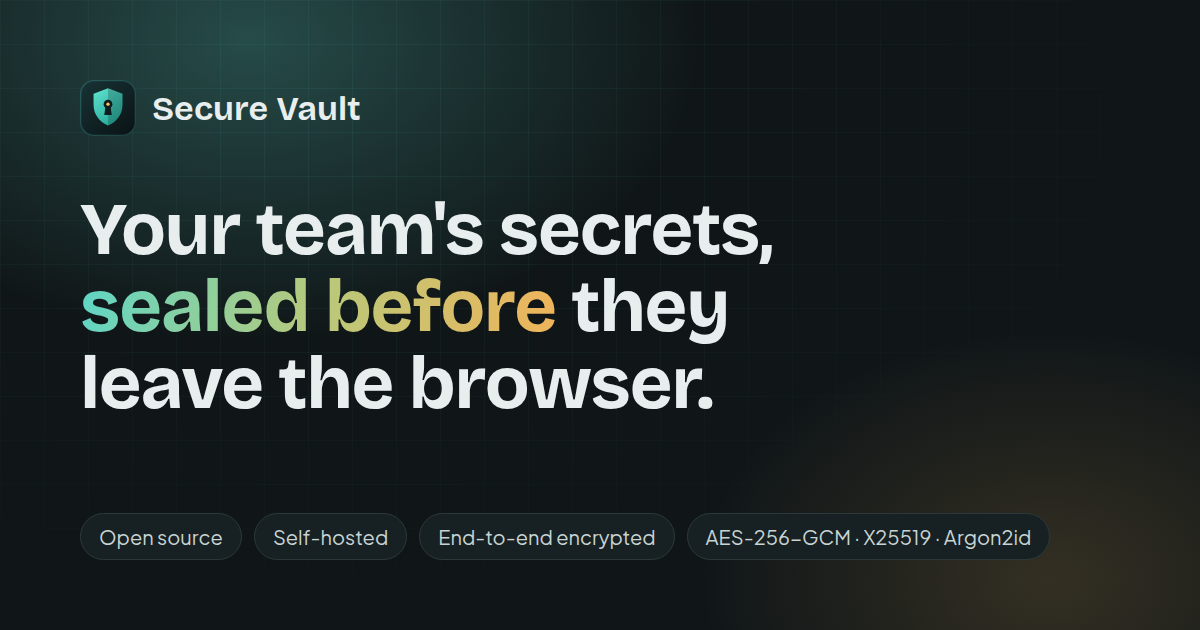
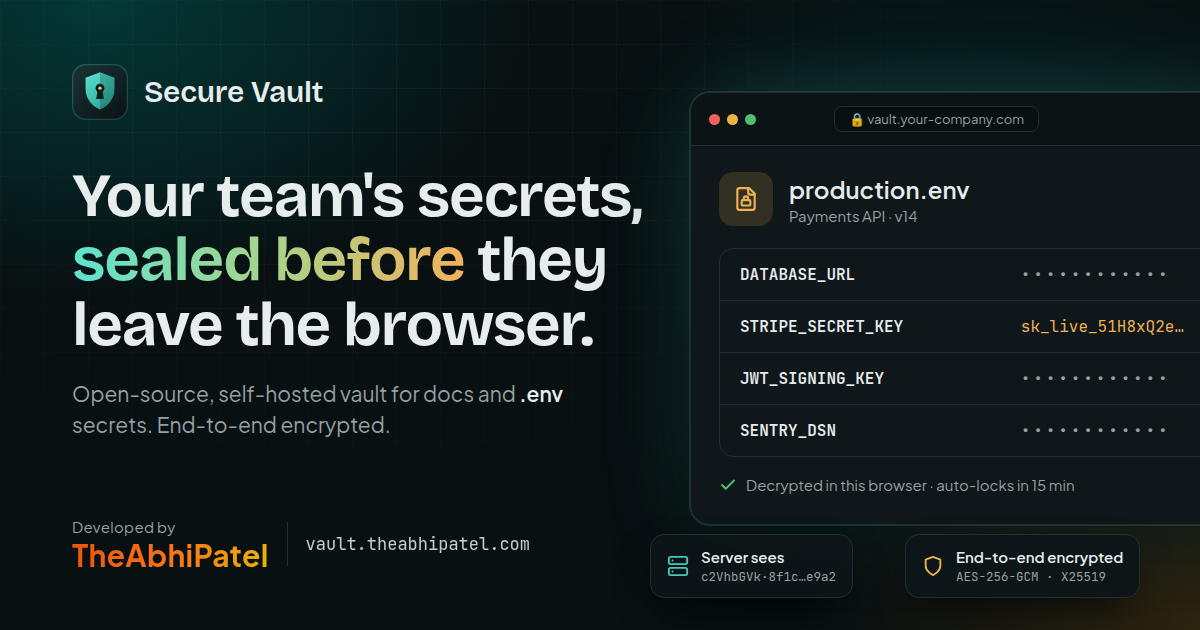
feat: add meta tags, description and og image

diff --git a/frontend/src/site/seo.ts b/frontend/src/site/seo.ts
@@ -1,6 +1,6 @@
 /** Per-page titles and meta tags, rendered into the pre-built HTML and kept in sync in the browser. */
 import { ALL_DOCS, findDoc } from "./docs/catalog"
-import { AUTHOR, GITHUB_URL, SITE_NAME, SITE_URL } from "./config"
+import { AUTHOR, GITHUB_URL, GOOGLE_SITE_VERIFICATION, SITE_NAME, SITE_URL } from "./config"
 
 export interface PageMeta {
   title: string
@@ -13,15 +13,23 @@ export interface PageMeta {
   section?: string
 }
 
-const HOME_DESCRIPTION =
-  "Secure Vault is an open-source, self-hosted team vault by TheAbhiPatel. Keep docs and .env secrets in one place, with secrets end-to-end encrypted in the browser so the server never sees them."
+/** "Secure Vault by TheAbhiPatel": the name people search for, used in titles and descriptions. */
+const BRANDED_NAME = `${SITE_NAME} by ${AUTHOR.name}`
+
+const HOME_DESCRIPTION = `${BRANDED_NAME} (${AUTHOR.fullName}) is an open-source, self-hosted team vault. Keep docs and .env secrets in one place, end-to-end encrypted in your browser so the server never sees them.`
 
 /** Keywords on every public page, including the author's name. */
 const SITE_KEYWORDS = [
   SITE_NAME,
+  BRANDED_NAME,
+  "Secure Vault TheAbhiPatel",
+  "vault theabhipatel",
+  "secure vault the abhi patel",
   "TheAbhiPatel",
   "theabhipatel",
+  "The Abhi Patel",
   "Abhi Patel",
+  "Abhishek Patel",
   "end-to-end encryption",
   "E2EE",
   "secrets management",
@@ -33,13 +41,15 @@ const SITE_KEYWORDS = [
   "zero-knowledge",
 ]
 
-const OG_IMAGE_ALT = `${SITE_NAME}: end-to-end encrypted secrets and docs for teams, by TheAbhiPatel`
+const OG_IMAGE_ALT = `${BRANDED_NAME}: end-to-end encrypted secrets and docs for teams`
+/** Bump when og-image.png changes, so social networks fetch the new image instead of a cached one. */
+const OG_IMAGE_PATH = "/og-image.png?v=2"
 
 export function pageMeta(pathname: string): PageMeta {
   const path = pathname.replace(/\/+$/, "") || "/"
   if (path === "/") {
     return {
-      title: `${SITE_NAME} | End-to-end encrypted secrets and docs for teams`,
+      title: `${BRANDED_NAME} | End-to-end encrypted secrets and docs`,
       description: HOME_DESCRIPTION,
       path,
       type: "website",
@@ -48,9 +58,8 @@ export function pageMeta(pathname: string): PageMeta {
   }
   if (path === "/docs") {
     return {
-      title: `Documentation | ${SITE_NAME}`,
-      description:
-        "Secure Vault documentation by TheAbhiPatel: self-host it, manage workspaces and roles, and keep secrets end-to-end encrypted.",
+      title: `Documentation | ${BRANDED_NAME}`,
+      description: `${BRANDED_NAME} documentation: self-host it, manage workspaces and roles, and keep secrets end-to-end encrypted.`,
       path,
       type: "website",
       keywords: ["Secure Vault docs", "documentation", "self-hosting guide"],
@@ -71,7 +80,7 @@ export function pageMeta(pathname: string): PageMeta {
   }
   if (path === "/privacy") {
     return {
-      title: `Privacy and demo terms | ${SITE_NAME}`,
+      title: `Privacy and demo terms | ${BRANDED_NAME}`,
       description: "What the public Secure Vault demo stores, how long, and why real secrets belong on your own server.",
       path,
       type: "website",
@@ -89,7 +98,7 @@ const escapeHtml = (value: string) =>
 /** The <head> tags for a page (static HTML; no inline scripts, which the CSP forbids). */
 export function renderHead(meta: PageMeta): string {
   const url = SITE_URL ? `${SITE_URL}${meta.path === "/" ? "/" : meta.path}` : ""
-  const image = SITE_URL ? `${SITE_URL}/og-image.png` : ""
+  const image = SITE_URL ? `${SITE_URL}${OG_IMAGE_PATH}` : ""
   const robots = "index, follow, max-image-preview:large, max-snippet:-1, max-video-preview:-1"
   const tags = [
     `<title>${escapeHtml(meta.title)}</title>`,
@@ -113,9 +122,14 @@ export function renderHead(meta: PageMeta): string {
     `<meta property="og:description" content="${escapeHtml(meta.description)}" />`,
     // X / Twitter
     `<meta name="twitter:card" content="summary_large_image" />`,
+    `<meta name="twitter:site" content="${AUTHOR.xHandle}" />`,
+    `<meta name="twitter:creator" content="${AUTHOR.xHandle}" />`,
     `<meta name="twitter:title" content="${escapeHtml(meta.title)}" />`,
     `<meta name="twitter:description" content="${escapeHtml(meta.description)}" />`,
   ]
+  if (GOOGLE_SITE_VERIFICATION) {
+    tags.push(`<meta name="google-site-verification" content="${escapeHtml(GOOGLE_SITE_VERIFICATION)}" />`)
+  }
   if (meta.type === "article") {
     tags.push(`<meta property="article:author" content="${AUTHOR.url}" />`)
     if (meta.section) tags.push(`<meta property="article:section" content="${escapeHtml(meta.section)}" />`)
@@ -126,6 +140,7 @@ export function renderHead(meta: PageMeta): string {
   if (image) {
     tags.push(
       `<meta property="og:image" content="${image}" />`,
+      `<meta property="og:image:secure_url" content="${image}" />`,
       `<meta property="og:image:type" content="image/png" />`,
       `<meta property="og:image:width" content="1200" />`,
       `<meta property="og:image:height" content="630" />`,
@@ -149,8 +164,11 @@ const PERSON = {
   "@id": absolute("/#author"),
   name: AUTHOR.name,
   alternateName: [...AUTHOR.alternateNames],
+  givenName: "Abhishek",
+  familyName: "Patel",
+  jobTitle: AUTHOR.jobTitle,
   url: AUTHOR.url,
-  sameAs: [AUTHOR.github, AUTHOR.url],
+  sameAs: [AUTHOR.url, AUTHOR.github, AUTHOR.linkedin, AUTHOR.x, AUTHOR.leetcode],
 }
 const PERSON_REF = { "@id": PERSON["@id"] }
 
@@ -158,6 +176,7 @@ const WEBSITE = {
   "@type": "WebSite",
   "@id": absolute("/#website"),
   name: SITE_NAME,
+  alternateName: [BRANDED_NAME, `${AUTHOR.name} Secure Vault`, `Vault by ${AUTHOR.name}`],
   url: absolute("/"),
   description: HOME_DESCRIPTION,
   inLanguage: "en",
@@ -173,11 +192,12 @@ export function structuredData(meta: PageMeta): string {
       "@type": "SoftwareApplication",
       "@id": absolute("/#software"),
       name: SITE_NAME,
+      alternateName: BRANDED_NAME,
       applicationCategory: "SecurityApplication",
       operatingSystem: "Web, Linux, macOS, Windows (self-hosted)",
       description: meta.description,
       url: absolute("/"),
-      ...(SITE_URL ? { image: absolute("/og-image.png") } : {}),
+      ...(SITE_URL ? { image: absolute(OG_IMAGE_PATH), screenshot: absolute(OG_IMAGE_PATH) } : {}),
       offers: { "@type": "Offer", price: "0", priceCurrency: "USD" },
       author: PERSON_REF,
       creator: PERSON_REF,

diff --git a/frontend/vite.config.ts b/frontend/vite.config.ts
@@ -3,7 +3,7 @@ import fs from 'node:fs'
 import path from 'node:path'
 import tailwindcss from '@tailwindcss/vite'
 import react from '@vitejs/plugin-react'
-import { defineConfig } from 'vite'
+import { defineConfig, loadEnv } from 'vite'
 import type { Plugin } from 'vite'
 
 // Where the FastAPI backend listens in development (see .env.example).
@@ -71,6 +71,34 @@ function subresourceIntegrity(): Plugin {
   }
 }
 
+/**
+ * Link previews for app pages (/login, /signup, invite links...). They stay noindex, but a shared link
+ * should still show the title and image. Open Graph needs absolute URLs, so this needs VITE_SITE_URL.
+ */
+function appShellSocialTags(siteUrl: string): Plugin {
+  const title = 'Secure Vault by TheAbhiPatel'
+  const description = "End-to-end encrypted secrets and docs for teams. Open source and self-hosted, by TheAbhiPatel."
+  const image = `${siteUrl}/og-image.png?v=2`
+  const tags = [
+    `<meta property="og:site_name" content="Secure Vault" />`,
+    `<meta property="og:type" content="website" />`,
+    `<meta property="og:title" content="${title}" />`,
+    `<meta property="og:description" content="${description}" />`,
+    `<meta property="og:image" content="${image}" />`,
+    `<meta property="og:image:width" content="1200" />`,
+    `<meta property="og:image:height" content="630" />`,
+    `<meta name="twitter:card" content="summary_large_image" />`,
+    `<meta name="twitter:creator" content="@itheabhipatel" />`,
+    `<meta name="twitter:title" content="${title}" />`,
+    `<meta name="twitter:description" content="${description}" />`,
+    `<meta name="twitter:image" content="${image}" />`,
+  ].join('\n    ')
+  return {
+    name: 'vault-app-shell-social-tags',
+    transformIndexHtml: (html) => html.replace('<!--app-social-->', siteUrl ? tags : ''),
+  }
+}
+
 /** Public site pages (landing, docs, privacy). Everything else is the app. */
 const isSitePath = (pathname: string) =>
   pathname === '/' || pathname === '/docs' || pathname.startsWith('/docs/') || pathname === '/privacy'
@@ -106,8 +134,14 @@ function sitePages(): Plugin {
 }
 
 // https://vite.dev/config/
-export default defineConfig(({ isSsrBuild }) => ({
-  plugins: [react(), tailwindcss(), sitePages(), subresourceIntegrity()],
+export default defineConfig(({ isSsrBuild, mode }) => ({
+  plugins: [
+    react(),
+    tailwindcss(),
+    sitePages(),
+    appShellSocialTags(String(loadEnv(mode, import.meta.dirname, 'VITE_').VITE_SITE_URL ?? '').replace(/\/+$/, '')),
+    subresourceIntegrity(),
+  ],
   resolve: {
     alias: { '@': path.resolve(import.meta.dirname, './src') },
   },

diff --git a/frontend/src/site/config.ts b/frontend/src/site/config.ts
@@ -7,10 +7,19 @@ export const GITHUB_DOCS_EDIT_URL = `${GITHUB_URL}/edit/master/frontend/src/site
 /** The author, credited in the meta tags and structured data of every public page. */
 export const AUTHOR = {
   name: "TheAbhiPatel",
-  alternateNames: ["Abhi Patel", "Abhishek Patel", "theabhipatel"],
+  fullName: "Abhishek Patel",
+  alternateNames: ["Abhishek Patel", "Abhi Patel", "The Abhi Patel", "theabhipatel"],
+  jobTitle: "Full Stack Developer & DevOps Engineer",
   url: "https://www.theabhipatel.com/",
   github: "https://github.com/theabhipatel",
+  linkedin: "https://www.linkedin.com/in/theabhipatel",
+  x: "https://x.com/itheabhipatel",
+  xHandle: "@itheabhipatel",
+  leetcode: "https://leetcode.com/u/theabhipatel",
 } as const
+
+/** Google Search Console HTML-tag verification token (the content="..." value), if any. */
+export const GOOGLE_SITE_VERIFICATION = String(import.meta.env.VITE_GOOGLE_SITE_VERIFICATION ?? "").trim()
 
 /** Absolute public origin (e.g. https://securevault.example.com). Used for canonical and Open Graph URLs. */
 export const SITE_URL = String(import.meta.env.VITE_SITE_URL ?? "").replace(/\/+$/, "")

diff --git a/frontend/src/site/components/site-footer.tsx b/frontend/src/site/components/site-footer.tsx
@@ -3,7 +3,7 @@ import { Link } from "react-router"
 
 import { LogoMark } from "@/components/brand"
 
-import { APP_URL, GITHUB_URL, SIGNUP_URL } from "../config"
+import { APP_URL, AUTHOR, GITHUB_URL, SIGNUP_URL } from "../config"
 import { DevelopedBy } from "./developed-by"
 import { GitHubIcon } from "./github-icon"
 
@@ -188,7 +188,11 @@ export function SiteFooter() {
 
         <div className="flex flex-col-reverse items-start justify-between gap-6 border-t py-8 sm:flex-row sm:items-center">
           <p className="text-muted-foreground text-xs">
-            © {new Date().getFullYear()} Secure Vault. Open source. Encrypted in your browser, stored as ciphertext.
+            © {new Date().getFullYear()} Secure Vault by{" "}
+            <a href={AUTHOR.url} target="_blank" rel="noopener author" className="hover:text-foreground underline-offset-4 hover:underline">
+              {AUTHOR.name} ({AUTHOR.fullName})
+            </a>
+            . Open source. Encrypted in your browser, stored as ciphertext.
           </p>
           <DevelopedBy />
         </div>

diff --git a/frontend/index.html b/frontend/index.html
@@ -4,7 +4,8 @@
     <meta charset="UTF-8" />
     <meta name="viewport" content="width=device-width, initial-scale=1.0" />
     <meta name="color-scheme" content="light dark" />
-    <meta name="description" content="Secure Vault: an end-to-end encrypted home for your team's secrets and docs." />
+    <meta name="description" content="Secure Vault by TheAbhiPatel: an end-to-end encrypted home for your team's secrets and docs." />
+    <meta name="author" content="TheAbhiPatel" />
     <meta name="robots" content="noindex" />
     <meta name="referrer" content="no-referrer" />
     <link rel="icon" type="image/svg+xml" href="/favicon.svg" />
@@ -12,7 +13,8 @@
     <link rel="apple-touch-icon" href="/apple-touch-icon.png" />
     <link rel="manifest" href="/site.webmanifest" />
     <script src="/theme-init.js"></script>
-    <title>Secure Vault</title>
+    <!--app-social-->
+    <title>Secure Vault by TheAbhiPatel</title>
   </head>
   <body>
     <div id="root"></div>

diff --git a/frontend/src/site/env.d.ts b/frontend/src/site/env.d.ts
@@ -1,4 +1,5 @@
 interface ImportMetaEnv {
   readonly VITE_SITE_URL?: string
+  readonly VITE_GOOGLE_SITE_VERIFICATION?: string
   readonly VITE_DEMO_MODE?: string
 }

diff --git a/README.md b/README.md
@@ -6,9 +6,11 @@
 
 **Your team's docs and secrets in one place, with secrets end-to-end encrypted in the browser.**
 
+Built by [TheAbhiPatel](https://www.theabhipatel.com/)
+
 Self-hosted · Multi-workspace · Roles and permissions · Audit log · Free
 
-[Live demo](https://secure-vault-navy-delta.vercel.app) · [Documentation](https://secure-vault-navy-delta.vercel.app/docs) · [Self-hosting guide](https://secure-vault-navy-delta.vercel.app/docs/self-hosting)
+[Live demo](https://vault.theabhipatel.com) · [Documentation](https://vault.theabhipatel.com/docs) · [Self-hosting guide](https://vault.theabhipatel.com/docs/self-hosting)
 
 </div>
 
@@ -48,7 +50,7 @@ plaintext secret. Even someone who steals the whole database gets nothing readab
 
 ## Try the demo
 
-Open the **[live demo](https://secure-vault-navy-delta.vercel.app)**, create an account and look around.
+Open the **[live demo](https://vault.theabhipatel.com)**, create an account and look around.
 
 > **The demo is for trying things out only.** Anyone can sign up, data may be wiped at any time, and
 > you don't control the server. **Never store real secrets there.** For real use, self-host it
@@ -178,9 +180,9 @@ This runs three containers:
 
 Put HTTPS in front of port 29080, for example with Caddy, Traefik or your load balancer.
 
-The full guide, covering HTTPS, backups and updates, is the [production deployment docs](https://secure-vault-navy-delta.vercel.app/docs/production).
+The full guide, covering HTTPS, backups and updates, is the [production deployment docs](https://vault.theabhipatel.com/docs/production).
 Every setting is listed in [backend/.env.example](backend/.env.example) and in the
-[configuration reference](https://secure-vault-navy-delta.vercel.app/docs/configuration).
+[configuration reference](https://vault.theabhipatel.com/docs/configuration).
 
 ---
 
@@ -238,7 +240,7 @@ All of these settings are **off by default**, so self-hosted installs behave exa
 - the database sleeps when idle, so the first request after a pause is slower;
 - the cleanup runs once a day.
 
-The full guide is the [Deploy a demo on Vercel docs](https://secure-vault-navy-delta.vercel.app/docs/vercel-demo).
+The full guide is the [Deploy a demo on Vercel docs](https://vault.theabhipatel.com/docs/vercel-demo).
 
 ---
 
@@ -570,7 +572,7 @@ own. The server enforces these rules on every request:
 
 <div align="center">
 
-Developed by **[TheAbhiPatel](https://www.theabhipatel.com/)** · [GitHub](https://github.com/theabhipatel)
+Developed by **[TheAbhiPatel](https://www.theabhipatel.com/)** (Abhishek Patel) · [Portfolio](https://www.theabhipatel.com/) · [GitHub](https://github.com/theabhipatel) · [LinkedIn](https://www.linkedin.com/in/theabhipatel) · [X](https://x.com/itheabhipatel)
 
 If Secure Vault is useful to you, please **[give it a star on GitHub](https://github.com/theabhipatel/vault)**.
 

diff --git a/frontend/src/site/docs/content/faq.md b/frontend/src/site/docs/content/faq.md
@@ -6,6 +6,10 @@ Quick answers to the questions people ask most often, and fixes for common probl
 
 A **normal document** is protected by access control. The server stores it readable, so it suits runbooks, notes and guides. A **secure document** is end-to-end encrypted in your browser before it's saved. The server only ever stores ciphertext, so it suits passwords, API keys and `.env` files. You choose the type when you create a document and can't change it later. See [Documents](/docs/documents) and [Secure documents](/docs/secure-documents).
 
+### Who built Secure Vault?
+
+Secure Vault is designed and developed by [TheAbhiPatel](https://www.theabhipatel.com/) (Abhishek Patel), a full stack developer and DevOps engineer. The source code is on [GitHub](https://github.com/theabhipatel/vault), and more projects are on the [TheAbhiPatel portfolio](https://www.theabhipatel.com/).
+
 ### Is there a hosted version, or do I have to self-host?
 
 Secure Vault is self-hosted software: you or your organisation run the server. See [Self-hosting](/docs/self-hosting) and [Production](/docs/production). If you try an instance someone else runs, for example a public demo, remember that its operator controls the server and the app it serves. Don't store real secrets on a server you don't trust.
